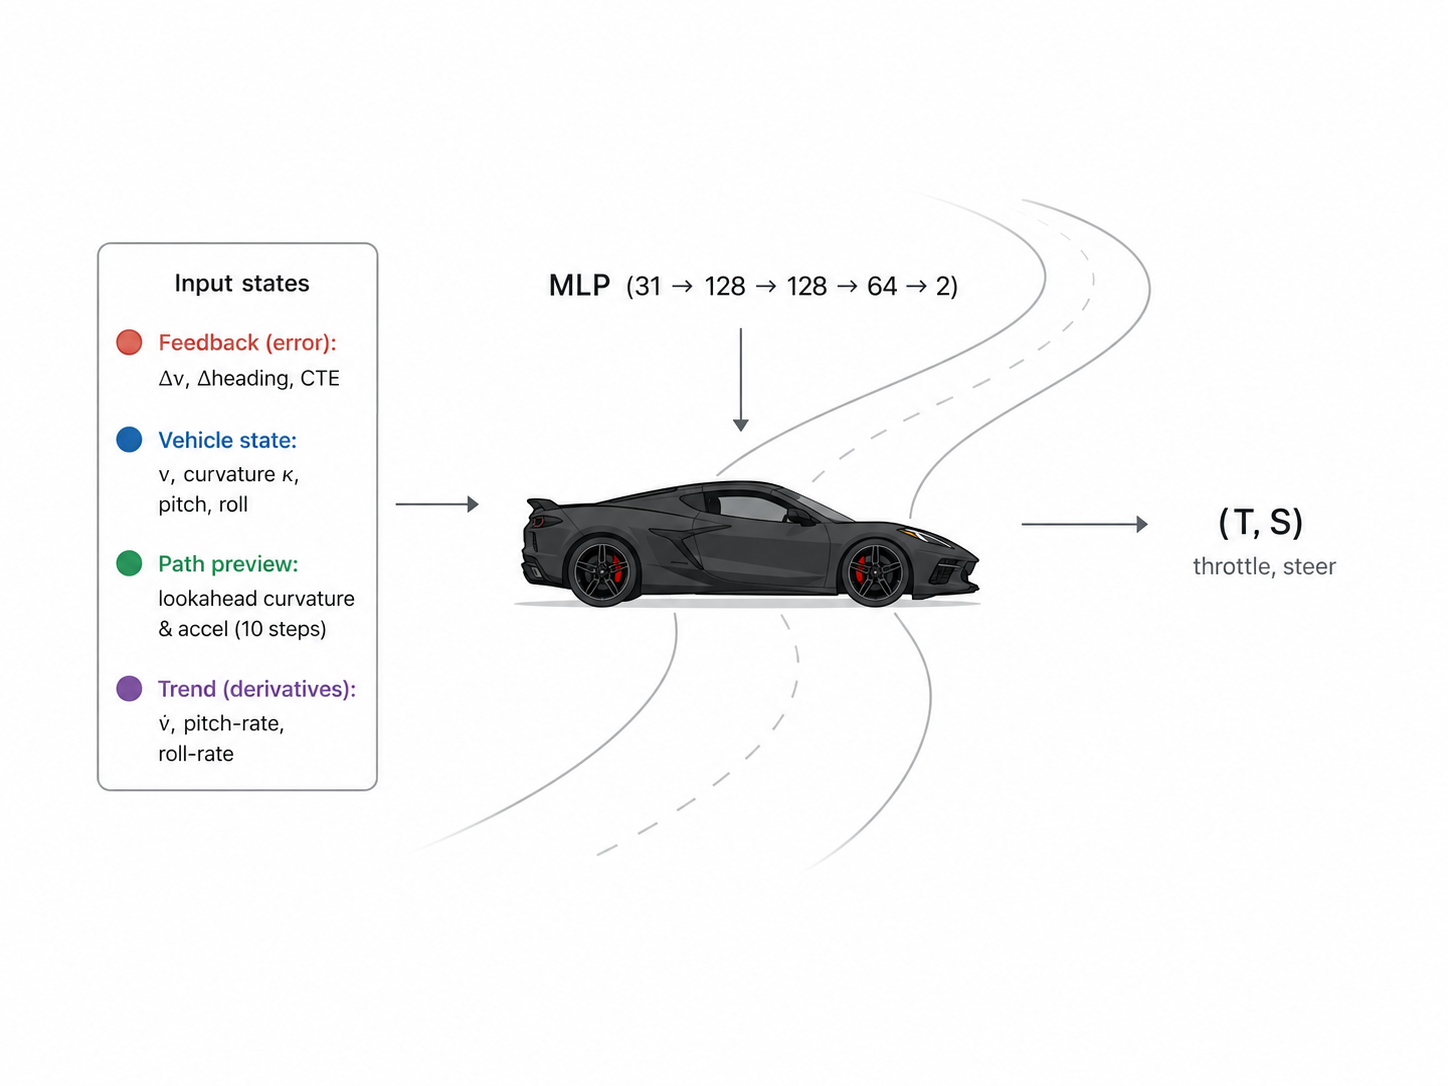
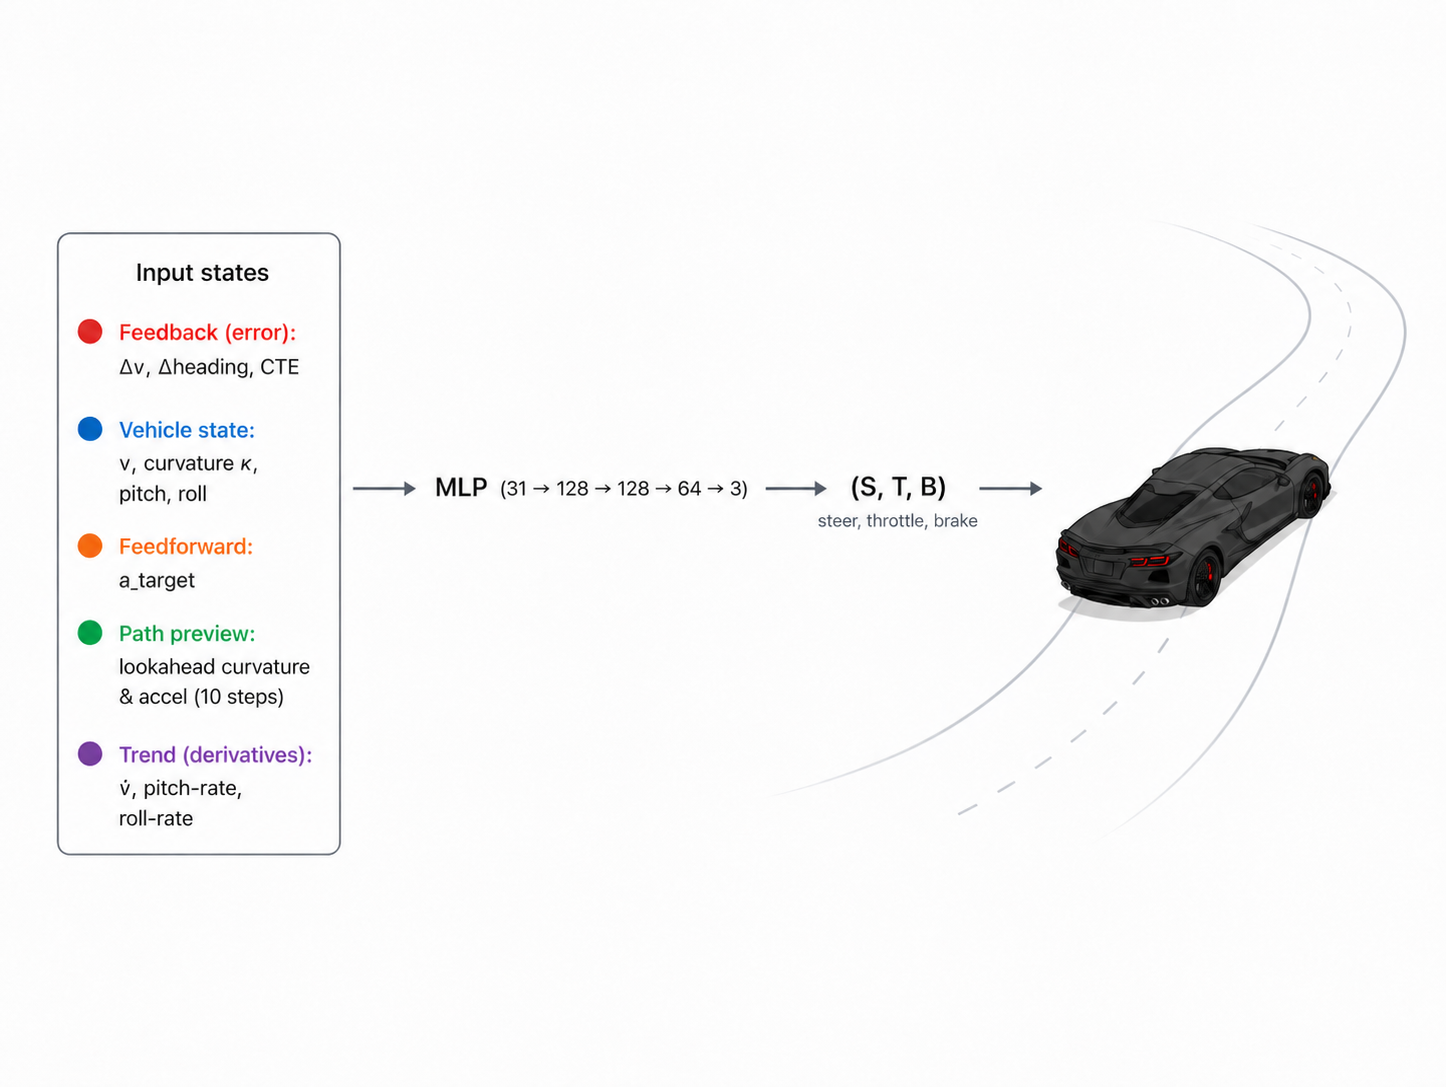
mod1

diff --git a/car_test/docs/[26-07-12]_ResidualRL_on_BC.md b/car_test/docs/[26-07-12]_ResidualRL_on_BC.md
@@ -70,7 +70,7 @@ u = T_BC + Δu      S = S_BC + ΔS
     * 안전측(감속) 보정을 더 허용
 
 
-### 4. State Sheet (31D — BC와 동일 구조)
+### State Sheet (31D — BC와 동일 구조)
 `state7`(Δv, Δheading, CTE, v_long, κ, pitch, roll) + `k_look×10` + `a_look×10` + `a_target` + `deriv3`(v̇, ṗ, ṙ, backward-slope K=5)
 
 ![](../res_wjdaksry/0712/rl_pipeline.png)
@@ -85,7 +85,7 @@ u = T_BC + Δu      S = S_BC + ΔS
 | **경향성 미분** | 3 | `dv_rate`, `pitch_rate`, `roll_rate` | 상태 변화 방향 (관측 스파이크 흡수) |
 
 
-### 5. Reward 설계
+### Reward 설계
 
 > 1 Episode : Scene 전체의 frame(ex: 480f)을 기준으로 보상 설계 
 
@@ -102,7 +102,7 @@ u = T_BC + Δu      S = S_BC + ΔS
 | 종료 벌점 | **−10** | \|cte\|>3.0m or \|roll\|>45° or \|pitch\|>45° 크게 실패하면 큰 감점 후 종료 |
 
 
-### 6. PPO 학습 설정
+### PPO 학습 설정
 
 > PPO 핵심 용어(GAE · clip)는 [PPO terminology 정리](tech/%5B26-07-12%5D_PPO_terminology.md) 참고
 
@@ -123,7 +123,7 @@ u = T_BC + Δu      S = S_BC + ΔS
 
 
 
-### 7. RL 학습 과정
+### RL 학습 과정
 
 ![](../res_wjdaksry/0712/rl_env.png)
 
@@ -151,18 +151,18 @@ u = T_BC + Δu      S = S_BC + ΔS
 * `Raycast Distance Cache` 재사용 하여 연산 비용 최적화
 
 
-## RL 학습 구조 이해 정리 — 중간 스폰(spawn)과 PPO 업데이트 주기
+### RL 학습 구조 이해 정리 — 중간 스폰(spawn)과 PPO 업데이트 주기
 
 > 목적: residual RL 학습에서 "경로 중간 스폰"의 의미를 잘못 이해했던 지점 기록
 
-
-### 1. 처음의 오해 — "모자이크" 걱정
+---
+#### Q: 처음의 오해 — "모자이크" 걱정
 
 **오해했던 내용**: 경로 중간 지점에서 에피소드를 시작하면, 서로 다른 위치의 프레임들을 독립적으로 계산해 이어붙이는 것(모자이크)이 되어, open loop 주행과 같은 오차가 생성 되는 것이 아닌가?
 
 * golden data mining 관점에서 비슷한 상황 : 최적화 시 경로를 분할하여 partial 구간 마다 최적화 후 경합 했더니 open loop 오차가 발생하여 사용하지 못하는 데이터가 됨.
 
-## 2. 교정된 이해 — spawn 은 초기조건, 에피소드는 연속 물리
+#### A: spawn 은 초기조건, 에피소드는 연속 물리
 
 **Random spawn 의 정확한 의미**: reference path 위의 특정 지점에 대해 **미리 settle 시킨 상태**(state cache에 저장), 복원하여 주행 이어나감
 
@@ -172,9 +172,9 @@ u = T_BC + Δu      S = S_BC + ΔS
 강제 이식은 절대 금지.* 
 
 * 초반 pose, state만 set, 이후 주행은 BC + RL policy 로 closed loop 주행
+---
 
-
-## 3. 왜 처음부터만 시작하지 않는가 — 학습 효율
+#### Q 왜 frame 1 부터 시작하지 않는가 — 학습 효율
 
 - 어려운 구간(예: 700프레임 근처 고속 코너)이 경로 뒤쪽에 있으면, 시작점
   고정 시 매 에피소드 0→700 을 달려야 그 경험을 얻는다.
@@ -183,15 +183,17 @@ u = T_BC + Δu      S = S_BC + ΔS
 - 초기 속도도 커리큘럼 분포에서 샘플되므로, "그 지점을 그 속도로 지나는"
   다양한 초기조건이 만들어진다.
 
-## 4. 효과
+
+#### A: 랜덤 spawn 효과
 
 > **배우는 것**: 에피소드 내부의 누적 오차와 그 보정, 복구(recovery) 능력
 
 * 경로 중 랜덤한 위치에서 시작된 에피소드 당연히 오차가 생김
 * 해당 오차를 RL policy가 보정하며, 오차에 대한 복구 능력이 생김
 
+---
 
-## 5. PPO 업데이트 주기 — episode 종료 후 env 는 새로운 episode 비동기 진행
+#### PPO 업데이트 주기 — episode 종료 후 env 는 새로운 episode 비동기 진행
 
 > 업데이트 주기: "에피소드가 끝나면 그때 actor 를 업데이트하나?"
 
@@ -227,12 +229,21 @@ step 127 episode B 계속 진행 중
 → PPO update
 ```
 
-## 6. DAgger 와 유사 역할
+#### 그렇다면 episode 주행 중 PPO update 가 일어난다면 어떻게 되는가?
+
+* `Policy_t` 가 주행 중 `policy update`가 일어난다면 운전자가 바뀐 것 이므로, `policy_t+1`이 중간에 주행하게 됨
+* 1개의 episode 에서 2개의 data 가 되는 셈
+
+---
+
+### DAgger 와 유사 역할
 
 **핵심 통찰 (맞는 부분)**: BC 의 근본 약점은 covariate shift — expert 분포에서만
 배우므로, 자기 실수로 분포 밖 상태에 들어가면 복구를 모른다. DAgger 는 "정책이
-실제로 방문하는 상태"에서 학습 데이터를 얻어 이를 고친다. **랜덤 중간 스폰 +
-폐루프 RL 도 정확히 같은 문제를 공격한다**: 다양한 초기조건(오차가 있는 상태
+실제로 방문하는 상태"에서 학습 데이터를 얻어 이를 고친다. 
+
+
+다양한 초기조건(오차가 있는 상태
 포함)에서 시작해, 정책 자신의 분포에서 복구 행동을 학습한다. "중간에서 시작한
 에피소드가 그 뒤의 경로를 보정하며 복구 능력을 만든다"는 이해가 정확하다.
 
@@ -246,22 +257,30 @@ step 127 episode B 계속 진행 중
   까지 확장 가능한 이유가 여기에 있다 — "MPPI 가 못다 한 최적화의 연장".
 
 
-## 7. Robust Mapper(BC Freeze + RL_PPO)
+
+
+## Robust Mapper(BC Freeze + RL_PPO)
+
 MLP 처럼 **통합 데이터 주행 policy**
 
 ### time vs position
 
 RL 상태 구성 시 레퍼런스 프레임을 고르는 두 방식:
-- **time 모드**: i = 스케줄 시계(+1/step, BC 학습과 동일). schedule 앵커 존재.
-- **position 모드**: i = 차량 위치에 가장 가까운 레퍼런스 프레임. schedule 앵커 없음 → 위상 자유표류 가능. lag 보상항(W_LAG)으로 지연 억제.
+- **time 모드**: 시간에 따라 `현재 위치 vs 목표 위치` 목표 위치에 위치해 있는가?
+  * 해당 지점에 있는가?
+  * 미리 꺾기 가능
+- **position 모드**: 시간에 무관하게 `현재위치 vs 경로 위 점` 가장 가까운 경로 위 점에 있는가?
+  * 경로에 붙어서 주행하는가?
+  * 주어진 프레임에서 약간의 미완주 가능
 
-### 3지표 비교 (26씬 통합, best: time 799 / position 600)
+
+### 결과 비교 (26씬 통합, best: time 799 / position 600)
 
 | 지표 | time | position | 판정 |
 |---|---|---|---|
-| frame-matched dist(ref csv, m) | 0.712 | 0.723 | time 우위 (1.5%) |
-| **횡오차 lateral (경로선 붙음, 실차 핵심, m)** | 0.075 | **0.068** | **position** (코너 특히: p134 횡 0.19→**0.05**) |
-| lag (종방향 오차, m) | 0.705 | 0.705 | **동률** |
+| **frame 기준 거리 오차 (:ref csv, m)** | **0.712** | 0.723 | time 우위 (1.5%, 0.011m) |
+| **횡오차 lateral (경로선 붙음, 실차 핵심, m)** | 0.075 | **0.068** | **position** (p134 시각적으로 크게 개선 0.19→**0.05**) |
+| **lag (종방향 오차, m)** | 0.705 | 0.705 | **동률** |
 
 
 ![](../res_wjdaksry/0712/grid_TIME_iter799.png) 
@@ -271,10 +290,9 @@ RL 상태 구성 시 레퍼런스 프레임을 고르는 두 방식:
 * position 기반
 
 
-- **핵심**: position 은 **lag 를 동등하게 유지하면서 횡오차를 더 낮춤** = 스케줄 추종은 동등한데 경로선엔 더 정확 
-- **단, clean win 은 아님** — 성능(횡추종) pos ≥ time / lag 동률 / **안정성 time > pos** (position 은 학습 중 it200=8.63 대발산 후 회복 → 체크포인트 선발 까다로움, 사인표류·쉬운구간 개입 관찰).
-- `Brake`가 있기 때문에, CTE 를 줄이는게 더 중요하다고 판단
-- **결론**: 실차 추종(횡·코너)은 position 우위, 학습 안정성은 time 우위 
+-  `position` 은 **lag 를 동등하게 유지하면서 횡오차를 더 낮춤** = 스케줄 추종은 동등한데 경로선엔 더 정확 
+- `Brake`로 인해 종방향 오차는 생길 수 밖에 없음 &rarr; `CTE` 를 줄이는게 더 중요하다고 판단
+
 
 
 ### 주행 영상 (BC vs RL_time vs RL_pos)